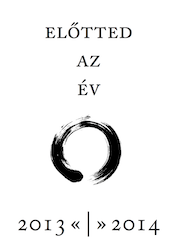
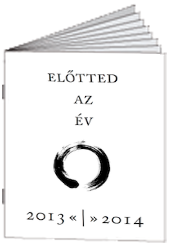
conceptual redesign, add faq

Changed region(s): [[0.0, 0.0, 1.0, 0.98], [0.2647, 0.448, 0.7059, 0.784]]

diff --git a/index.html b/index.html
@@ -18,7 +18,7 @@
     <meta property="og:site_name" content="Láthatatlan Egyetem | Évrendező munkafüzet 2014"/>
     <meta property="fb:app_id" content="229235697200737"/>
 
-    <title>Előtted az év</title>
+    <title>Előtted az év | 2014</title>
 
     <!-- CSS and FontAwesome-->
     <link href="css/bootstrap.css" rel="stylesheet">
@@ -47,9 +47,12 @@
     <!-- hero unit-->
     <div class="container">
       <div class="row">
-        <div class="jumbotron col-md-8 col-md-offset-2">
-          <h1>Előtted az év</h1>
-          <p class="lead">Az évrendező munkafüzet abban segít Téged, hogy lezárhasd a mögötted álló, és nyugodtan megtervezhesd a következő évedet.</p>
+        <div class="jumbotron col-md-10 col-md-offset-1">
+          <h1>Évrendező munkafüzet 
+            <br>
+            <small></small>
+          </h1>
+          <p class="lead">Zárd le 2013-at, tervezd meg 2014-et.</p>
         </div> <!-- /jumbotron-->
       </div> <!-- /row-->
       <!-- /hero unit-->
@@ -62,27 +65,31 @@
           <table class="table table-bordered table-hover table-responsive">
             <tbody>
               <tr id="downloadTable" class="clickableRow" href="http://2014.lathatatlanegyetem.hu/files/2014_evrendezo_munkafuzet.pdf">
+                <td style="vertical-align:middle" width="20%">
+                  <img class="img-thumbnail" src="img/borito.png" alt="Évrendező munkafüzet">
+                </td>
+                <td>
+                  <h3>Helyes kis füzetke. 
+                    <br>
+                    <small>(A/4-es lapra nyomtatható)</small></h3>
+                  <p>Ha nem tud a nyomtatód automatikusan mindkét oldalra nyomtatni, először a páratlan oldalakat nyomtasd, fordítsd meg a lapokat, és a párosokkal fejezd be.</p>
+                </td>
                 <td style="vertical-align:middle" width="30%">
                   <a href="files/2014_evrendezo_munkafuzet.pdf" class="btn btn-block btn-lg btn-success"><i class="fa fa-download"> </i> Letöltés</a>
                 </td>
-                <td>
-                  <h3>Helyes kis füzetke. <small>(A/4-es lapra nyomtatható)</small></h3>
-                  <p>Ha nem tud a nyomtatód automatikusan mindkét oldalra nyomtatni, először a páratlan oldalakat nyomtasd, fordítsd meg a lapokat, és a párosokkal fejezd be.</p>
-                </td>
-                <td style="vertical-align:middle">
-                  <img class="img-thumbnail" src="img/borito.png" alt="Évrendező munkafüzet">
-                </td>
               </tr>
               <tr class="clickableRow" href="http://2014.lathatatlanegyetem.hu/files/2014_evrendezo_munkafuzet_A4.pdf">
-                <td style="vertical-align:middle" width="30%">
-                  <a href="files/2014_evrendezo_munkafuzet_A4.pdf" class="btn btn-block btn-lg btn-success"><i class="fa fa-download"> </i> Letöltés</a>
+                <td style="vertical-align:middle">
+                  <img class="img-thumbnail" src="img/borito_A4.png" alt="Évrendező munkafüzet">
                 </td>
                 <td>
-                  <h3>Normál formátum. <small>(A/4-es lapra nyomtatható)</small></h3>
+                  <h3>Normál formátum. 
+                    <br>
+                    <small>(A/4-es lapra nyomtatható)</small></h3>
                   <p>Akkor válaszd ezt, ha a Te nyomtatód sokkal egyszerűbben is tud füzet-formátumot nyomtatni. Vagy ha egyszerűen nem akarsz bajlódni a hajtogatással.</p>
                 </td> 
-                <td style="vertical-align:middle">
-                  <img class="img-thumbnail" src="img/borito.png" alt="Évrendező munkafüzet">
+                <td style="vertical-align:middle" width="30%">
+                  <a href="files/2014_evrendezo_munkafuzet_A4.pdf" class="btn btn-block btn-lg btn-success"><i class="fa fa-download"> </i> Letöltés</a>
                 </td>
               </tr> 
             </tbody>
@@ -97,32 +104,7 @@
             </div> <!-- /fb-like -->
             </div> <!-- /col-md-12 -->
           </div> <!-- /row -->
-          <!-- /facebook like box -->
-
-          <!-- engage buttons -->
-          <div class="row">
-            <div class="col-md-6">
-              <a href="#downloadTable" class="btn btn-block" data-toggle="collapse" data-target="#comments">
-              <i class="fa fa-comments"> </i>
-              szólj hozzá
-              </a>
-            </div> <!-- /col-md-6 -->
-            <div class="col-md-6">
-              <a id="thanks" class="btn btn-block" data-toggle="modal" data-target="#contactForm" href="#contactForm">
-              küldd el a fejlesztési javaslatodat
-              <i class="fa fa-envelope"> </i>
-              </a>
-            </div> <!-- /col-md-6 -->
-          </div> <!-- /row -->
-          <!-- /engage buttons -->
-
-          <!-- facebook comments collapsible-->
-          <div class="row">
-            <div class="collapse" id="comments">
-              <div class="fb-comments" data-href="http://2014.lathatatlanegyetem.hu" data-numposts="5" data-colorscheme="light"></div>
-            </div> <!-- /fb-comments -->
-          </div> <!-- /row -->
-          <!-- /facebook comments collapsible -->           
+          <!-- /facebook like box -->      
 
           <!-- modal contact form -->
           <div class="modal fade" id="contactForm" tabindex="-1" role="dialog" aria-labelledby="contact form" aria-hidden="true">>
@@ -192,36 +174,77 @@
       <!-- about AND donation -->
       <div class="row">
         <div class="col-md-8 col-md-offset-2">
-          <h2>Miért jó ez nekem?</h2>
-            <p class="lead">
+          <h2>Mi az, hogy évrendezés?</h2>
+            <p>
               Az évrendezés egy jó szokás. Segítségével tudatosíthatod magadban sikereidet, bánataidat, és rácsodálkozhatsz, mennyi minden történhet egy év alatt. A múltadból tanulva tervezheted meg a jövődet, hogy ne ess időről-időre ugyanazokba a csapdákba, és a kezedben tudhasd saját életed irányítását.
             </p>
-            
-            <hr>
-            
-            <p class="text-center">
-              Készítették a Láthatatlan Egyetem önkéntesei.
+
+          <h2>Kik készítették ezt az évrendezős munkafüzetet?</h2>
+            <p>
+              A <a href="http://lathatatlanegyetem.hu" title="Láthatatlan Egyetem">Láthatatlan Egyetem</a> önkéntesei.
+              <!-- logo -->
+                  <a href="http://lathatatlanegyetem.hu" title="Láthatatlan Egyetem">
+                    <img src="img/puli.png" class="pull-right" width="100px" alt="A Láthatatlan Egyetem egy felsőoktatási hallgatókból és fiatal felnőttekből álló nemzetközi szervezet. Jövőképe, hogy a világ összes felsőoktatási intézményében legyen egy-egy önkéntesekből álló társaság, aki a többieknek életvezetési ismeretek elsajátítását segítő programokat szervez.">
+                  </a>
+              <!-- /logo -->
             </p>
+          <h2>Mi az a Láthatatlan Egyetem?</h2>
+            <p>
+              A Láthatatlan Egyetem egy felsőoktatási hallgatókból és fiatal felnőttekből álló nemzetközi szervezet. Jövőképe, hogy a világ összes felsőoktatási intézményében legyen egy-egy önkéntesekből álló társaság, aki a többieknek életvezetési ismeretek elsajátítását segítő programokat szervez. <a href="http://lathatatlanegyetem.hu" title="Láthatatlan Egyetem">Itt</a> tudhatsz meg róluk többet.
+            </p>
+          <h2>Mennyibe kerül az évrendezős munkafüzet?</h2>
+            <p>
+              Egy megosztásba. A Láthatatlan Egyetem önkéntesek sok munkájával, és adományokból jut el sok egyetemistához. Ha Te is megteheted, hogy fölajánlj valamennyit, megteheted az alábbi gombra kattintva:
+              <form class="pull-right" action="https://www.paypal.com/cgi-bin/webscr" method="post" target="_top">
+                <input type="hidden" name="cmd" value="_s-xclick">
+                <input type="hidden" name="hosted_button_id" value="WQMCKWQ3C7238">
+                <input type="image" src="https://www.paypalobjects.com/en_US/i/btn/btn_donate_SM.gif" border="0" name="submit" alt="A Láthatatlan Egyetem adományokból jut el sok egyetemistához" title="A Láthatatlan Egyetem adományokból jut el sok egyetemistához">
+                <img alt="A Láthatatlan Egyetem adományokból jut el sok egyetemistához" title="A Láthatatlan Egyetem adományokból jut el sok egyetemistához" border="0" src="https://www.paypalobjects.com/en_US/i/scr/pixel.gif" width="1" height="1">
+              </form> 
+            </p>
+          <h2>Tényleg van élő találkozó is?</h2>
+            <p>
+              Igen, minden év elején tartunk közös évrendezős műhelyet, mert az a tapasztalatunk, hogy a hús-vér találkozó mindig sokat lendít egy ilyen alkalmon. Ha már tudjuk az időpontját, kiírjuk ide, de <a href="http://lathatatlanegyetem.hu" title="Láthatatlan Egyetem">ide kattintva</a> biztosan tudomást szerezhetsz róla. Addig pedig te is hívj össze bátran pár embert, és töltsétek ki közösen. Megígérjük, hogy jól eltöltött idő lesz. A tapasztalatodat szeretettel várjuk az oldal alján, a hozzászólások között.
+            </p>
+          <h2>Tetszik, hogyan segíthetek?</h2>
+            <p>
+              Örülünk. :) Elsősorban azzal, ha kitöltöd, és mesélsz erről másoknak, mert így jut el a legtöbb emberhez. Ha sajtóhibát találtál, vagy fejlesztési javaslatod van
+              <a id="thanks" data-toggle="modal" data-target="#contactForm" href="#contactForm">
+              <i class="fa fa-envelope"></i> Kattints ide</a>, és küldj nekünk egy levelet. Ha pedig a Láthatatlan Egyetem képzései érdekelnek, figyeld a <a href="http://lathatatlanegyetem.hu" title="Láthatatlan Egyetem">Facebook oldalunkat</a>, hogy nehogy lemaradj a következő félévről.
+            </p>
+          <h2>Észrevételem, javaslatom van, hogyan mondhatom el?</h2>
+            <p>
+              <a id="thanks" data-toggle="modal" data-target="#contactForm" href="#contactForm">
+              <i class="fa fa-envelope"></i> Kattints ide</a>, és küldj nekünk egy levelet.
+            </p>
+
+            <hr>
+
+            <!-- facebook like box -->
+            <div class="row">
+              <div class="col-md-12">
+              <div class="fb-like" data-href="http://2014.lathatatlanegyetem.hu" data-layout="standard" data-action="like" data-show-faces="true" data-share="true">
+              </div> <!-- /fb-like -->
+              </div> <!-- /col-md-12 -->
+            </div> <!-- /row -->
+            <!-- /facebook like box -->
             
-            <!-- logo -->
-            <div class="text-center">
-              <p>
-                <a href="http://lathatatlanegyetem.hu" title="Láthatatlan Egyetem">
-                  <img src="img/puli.png" width="100px" alt="A Láthatatlan Egyetem egy felsőoktatási hallgatókból és fiatal felnőttekből álló nemzetközi szervezet. Jövőképe, hogy a világ összes felsőoktatási intézményében legyen egy-egy önkéntesekből álló társaság, aki a többieknek életvezetési ismeretek elsajátítását segítő programokat szervez.">
-                </a>
-              </p> 
-            </div>
-            <!-- /logo -->
-            
+            <!-- facebook comments-->
+            <div class="row">
+                <div class="fb-comments" data-href="http://2014.lathatatlanegyetem.hu" data-numposts="5" data-colorscheme="light"></div>
+              </div> <!-- /fb-comments -->
+            <!-- /facebook comments -->    
+
             <hr>
 
             <!-- creative commons AND paypal donate button -->
             <div class="text-center">
+
+              <a href="http://lathatatlanegyetem.hu" title="Láthatatlan Egyetem"><i class="text-muted fa fa-facebook-square fa-2x opaq"></i></a>
               
               <img id="license" class="opaq" src="img/cc.png" alt="Nevezd meg!-Ne add el!-Így add tovább!" title="Nevezd meg!-Ne add el!-Így add tovább!">
 
-              <a href="https://github.com/freegyes/Elotted-az-ev-2014" title="follow on GitHub"><i class="text-muted fa fa-github fa-2x opaq"></i></a>  
-              
+              <a href="https://github.com/freegyes/Elotted-az-ev-2014" title="follow on GitHub"><i class="text-muted fa fa-github fa-2x opaq"></i></a>               
               
               <form action="https://www.paypal.com/cgi-bin/webscr" method="post" target="_top">
                 <input type="hidden" name="cmd" value="_s-xclick">
@@ -229,6 +252,10 @@
                 <input type="image" class="opaq" src="https://www.paypalobjects.com/en_US/i/btn/btn_donate_SM.gif" border="0" name="submit" alt="A Láthatatlan Egyetem adományokból jut el sok egyetemistához" title="A Láthatatlan Egyetem adományokból jut el sok egyetemistához">
                 <img alt="A Láthatatlan Egyetem adományokból jut el sok egyetemistához" title="A Láthatatlan Egyetem adományokból jut el sok egyetemistához" border="0" src="https://www.paypalobjects.com/en_US/i/scr/pixel.gif" width="1" height="1">
               </form> 
+
+              <a title="küldj nekünk levelet" id="thanks" data-toggle="modal" data-target="#contactForm" href="#contactForm">
+              <i class="text-muted fa fa-envelope-o fa-2x opaq"></i></a>
+
             </div>
             <!-- /creative commons AND paypal donate button-->
 

diff --git a/css/custom.css b/css/custom.css
@@ -20,12 +20,12 @@ tr.clickableRow {
 
 form {
   display: inline;
-  padding: 0 0 10px 15px;  
+  padding: 0 10px 10px 10px;  
 }
 
 #license {
   max-height: 23px;
-  margin: -10px 15px 0 30px;
+  margin: -10px 15px 0 20px;
 }
 
 /* facebook comments */
